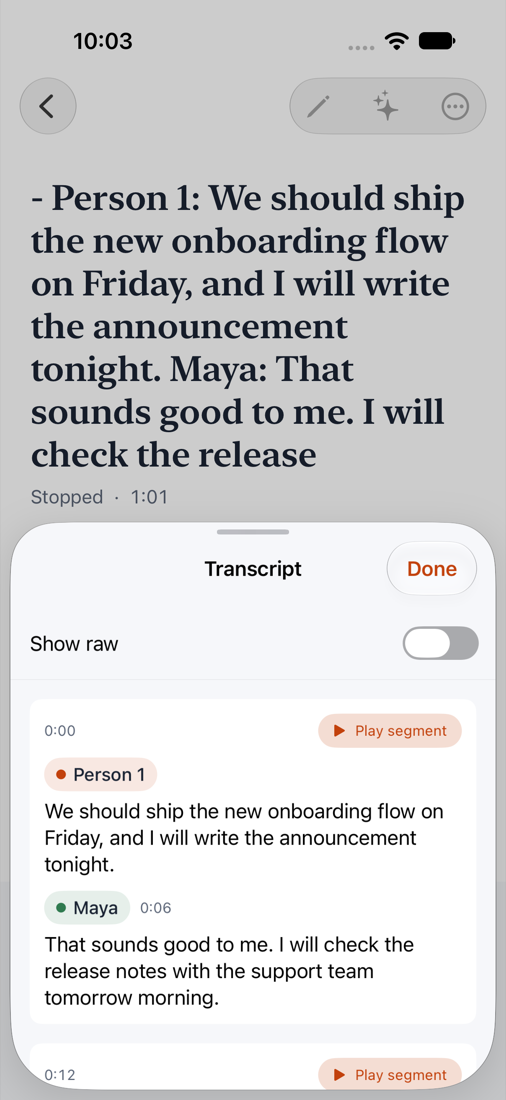
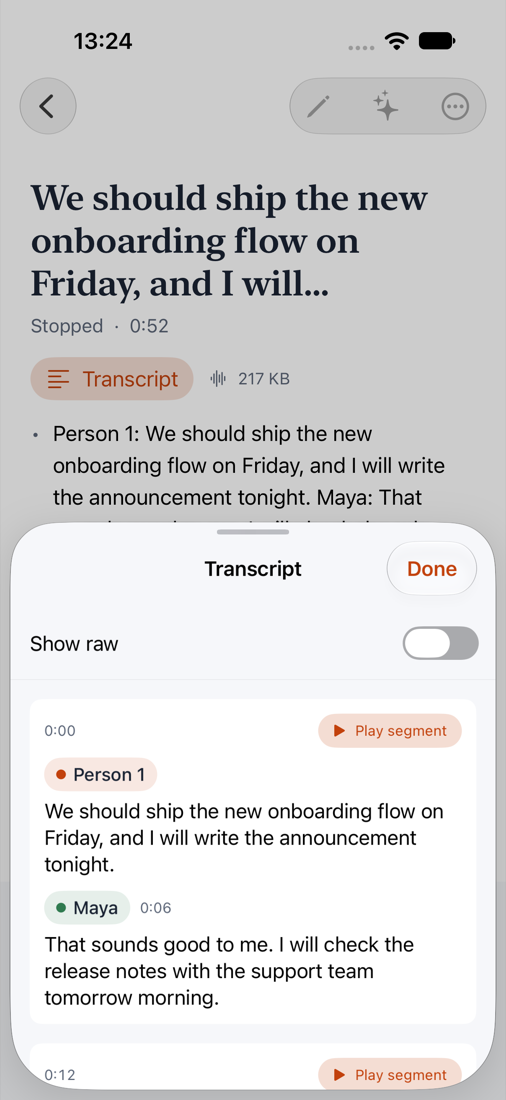
fix(core): short derived note titles; run the speaker recorder suite one test per process in CI
A note with no heading or chosen title took its whole first line as the title,
so a speaker-labelled paragraph became the title. The derived title drops list
markers and a Person N / renamed-name label, stops at the first sentence, and
is cut at about 60 characters on a word boundary with an ellipsis; headings and
chosen titles are unchanged.

ServerSpeakersRecorderTests drives the real recorder like the other recorder
suites, so it joins the isolated list in mac/scripts/ci-test.sh (Xcode 26
runners abort a shared process for those).

Changed region(s): [[0.0593, 0.1545, 0.919, 0.4636], [0.1482, 0.0309, 0.2668, 0.0618]]

diff --git a/mac/Sources/ChirpCore/NotesLibrary.swift b/mac/Sources/ChirpCore/NotesLibrary.swift
@@ -82,8 +82,8 @@ extension NotesDocument {
         if let heading = lines.first(where: { $0.range(of: #"^#{1,6}\s+\S"#, options: .regularExpression) != nil }) {
             return String(heading.drop(while: { $0 == "#" || $0.isWhitespace }).prefix(160))
         }
-        if let line = lines.first(where: { !$0.isEmpty && $0 != "---" }) { return String(line.prefix(160)) }
-        if let line = segments.first(where: { !$0.isGap && !$0.text.isEmpty })?.text { return String(line.prefix(160)) }
+        if let derived = lines.lazy.compactMap({ derivedTitle(from: $0) }).first { return derived }
+        if let derived = segments.lazy.filter({ !$0.isGap }).compactMap({ derivedTitle(from: $0.text) }).first { return derived }
         let formatter = DateFormatter()
         formatter.locale = Locale(identifier: "en_US_POSIX")
         formatter.dateFormat = "d MMMM"
@@ -117,6 +117,38 @@ extension NotesDocument {
         }
         let preview = body.isEmpty ? segments.filter { !$0.isGap }.map(\.text).joined(separator: " ") : body
         return String(preview.split(whereSeparator: \.isWhitespace).joined(separator: " ").prefix(240))
+    }
+
+    /// The longest a title derived from the text runs (about; it ends on a word boundary).
+    public static let derivedTitleLength = 60
+
+    /// A short title from a line of text when the note has no heading and no chosen title: list markers and a leading
+    /// speaker label (`Person 1:`, or the name a person was renamed to) come off, it stops at the first sentence end, and
+    /// it is cut on a word boundary with an ellipsis. Nil when nothing is left.
+    func derivedTitle(from line: String) -> String? {
+        var text = line.trimmingCharacters(in: .whitespaces)
+        text = text.replacingOccurrences(of: #"^(?:>\s*|[-*+]\s+(?:\[[ xX]\]\s+)?|\d+[.)]\s+)+"#, with: "", options: .regularExpression)
+        text = text.replacingOccurrences(of: #"\*\*|__|`"#, with: "", options: .regularExpression)
+        let names = roster.people.compactMap { $0.name?.trimmingCharacters(in: .whitespacesAndNewlines) }.filter { !$0.isEmpty }
+        for name in names where text.hasPrefix(name + ":") {
+            text = String(text.dropFirst(name.count + 1))
+            break
+        }
+        text = text.trimmingCharacters(in: .whitespaces)
+            .replacingOccurrences(of: #"^Person \d+:"#, with: "", options: .regularExpression)
+            .trimmingCharacters(in: .whitespaces)
+        // The first sentence only.
+        if let end = text.range(of: #"[.!?](?=\s|$)"#, options: .regularExpression) { text = String(text[..<end.lowerBound]) }
+        text = text.split(whereSeparator: \.isWhitespace).joined(separator: " ")
+        guard text.contains(where: { $0.isLetter || $0.isNumber }) else { return nil }
+        let limit = Self.derivedTitleLength
+        guard text.count > limit else { return text }
+        let cut = String(text.prefix(limit))
+        let words = cut.split(separator: " ", omittingEmptySubsequences: true)
+        // A boundary: drop the word the limit fell inside, unless the cut landed exactly after one.
+        let whole = text[text.index(text.startIndex, offsetBy: limit)] == " "
+        let kept = whole || words.count < 2 ? words : words.dropLast()
+        return kept.joined(separator: " ").trimmingCharacters(in: CharacterSet(charactersIn: " ,;:-—")) + "…"
     }
 
     public func openTodoCount() -> Int {

diff --git a/mac/Tests/ChirpCoreTests/NotesLibraryTests.swift b/mac/Tests/ChirpCoreTests/NotesLibraryTests.swift
@@ -452,3 +452,63 @@ private func libraryDirectory() -> URL {
     }
 
 }
+
+/// The title a note gets from its text when it has no heading and no chosen title (#201: a speaker-labelled paragraph
+/// was the whole title).
+@Suite struct DerivedTitleTests {
+    private func title(_ text: String, segment: String? = nil, build: (inout NotesDocument) -> Void = { _ in }) -> String {
+        var d = NotesDocument(startedAt: Date(timeIntervalSince1970: 0), text: text)
+        if let segment { d.append(NotesSegment(id: 0, offset: 0, raw: segment, text: segment)) }
+        build(&d)
+        return d.title
+    }
+
+    @Test func listMarkersAndASpeakerLabelComeOffAndItStopsAtTheFirstSentence() {
+        #expect(title("- Person 1: We should ship the new onboarding flow on Friday. Person 2: That sounds good.")
+                == "We should ship the new onboarding flow on Friday")
+        #expect(title("* Send the proposal") == "Send the proposal")
+        #expect(title("1. Book the room. Then call") == "Book the room")
+        #expect(title("- [ ] Send the proposal by Friday") == "Send the proposal by Friday")
+        #expect(title("> Question? Who leads") == "Question")
+    }
+
+    @Test func aRenamedPersonsLabelComesOffToo() {
+        let t = title("- Maya: That sounds good to me. Person 1: ok") { d in
+            d.append(NotesSegment(id: 0, offset: 0, raw: "x", text: "x"))
+            d.attachServerTurns([ServerTurn(speaker: 0, start: 0, text: "x")], generation: "g", toSegment: 0)
+            d.renameSpeaker(1, to: "Maya")
+        }
+        #expect(t == "That sounds good to me")
+        // A colon that is not a known speaker stays: "Agenda: review" is the user's own line.
+        #expect(title("Agenda: review the plan") == "Agenda: review the plan")
+    }
+
+    @Test func aLongTitleIsCutOnAWordBoundaryWithAnEllipsis() {
+        let t = title("- Person 1: We should ship the new onboarding flow on Friday, and I will write the announcement tonight.")
+        #expect(t == "We should ship the new onboarding flow on Friday, and I will…")
+        #expect(t.count <= NotesDocument.derivedTitleLength + 1)
+        let words = title(String(repeating: "word ", count: 40))
+        #expect(words.hasSuffix("…") && words.count <= NotesDocument.derivedTitleLength + 1 && !words.contains("wor…"))
+        // One long unbroken token is cut where it is.
+        #expect(title(String(repeating: "a", count: 100)).count == NotesDocument.derivedTitleLength + 1)
+    }
+
+    @Test func aShortTitleIsLeftAlone() {
+        #expect(title("Call the dentist") == "Call the dentist")
+        #expect(title("Call the dentist\nthen the bank") == "Call the dentist")
+    }
+
+    @Test func nothingLeftFallsBackToTheNextLineThenTheSegmentThenTheDate() {
+        #expect(title("- \n---\n- Person 1:\nReal first line") == "Real first line")
+        #expect(title("", segment: "Person 1: hello there. Bye") == "hello there")
+        #expect(title("- Person 1:").hasPrefix("Note, "))
+        #expect(title("").hasPrefix("Note, "))
+    }
+
+    @Test func aHeadingAndAChosenTitleAreUnchanged() {
+        #expect(title("intro\n## The Heading\nbody") == "The Heading")
+        var d = NotesDocument(text: "- Person 1: long text here")
+        d.rename("My title")
+        #expect(d.title == "My title")
+    }
+}
